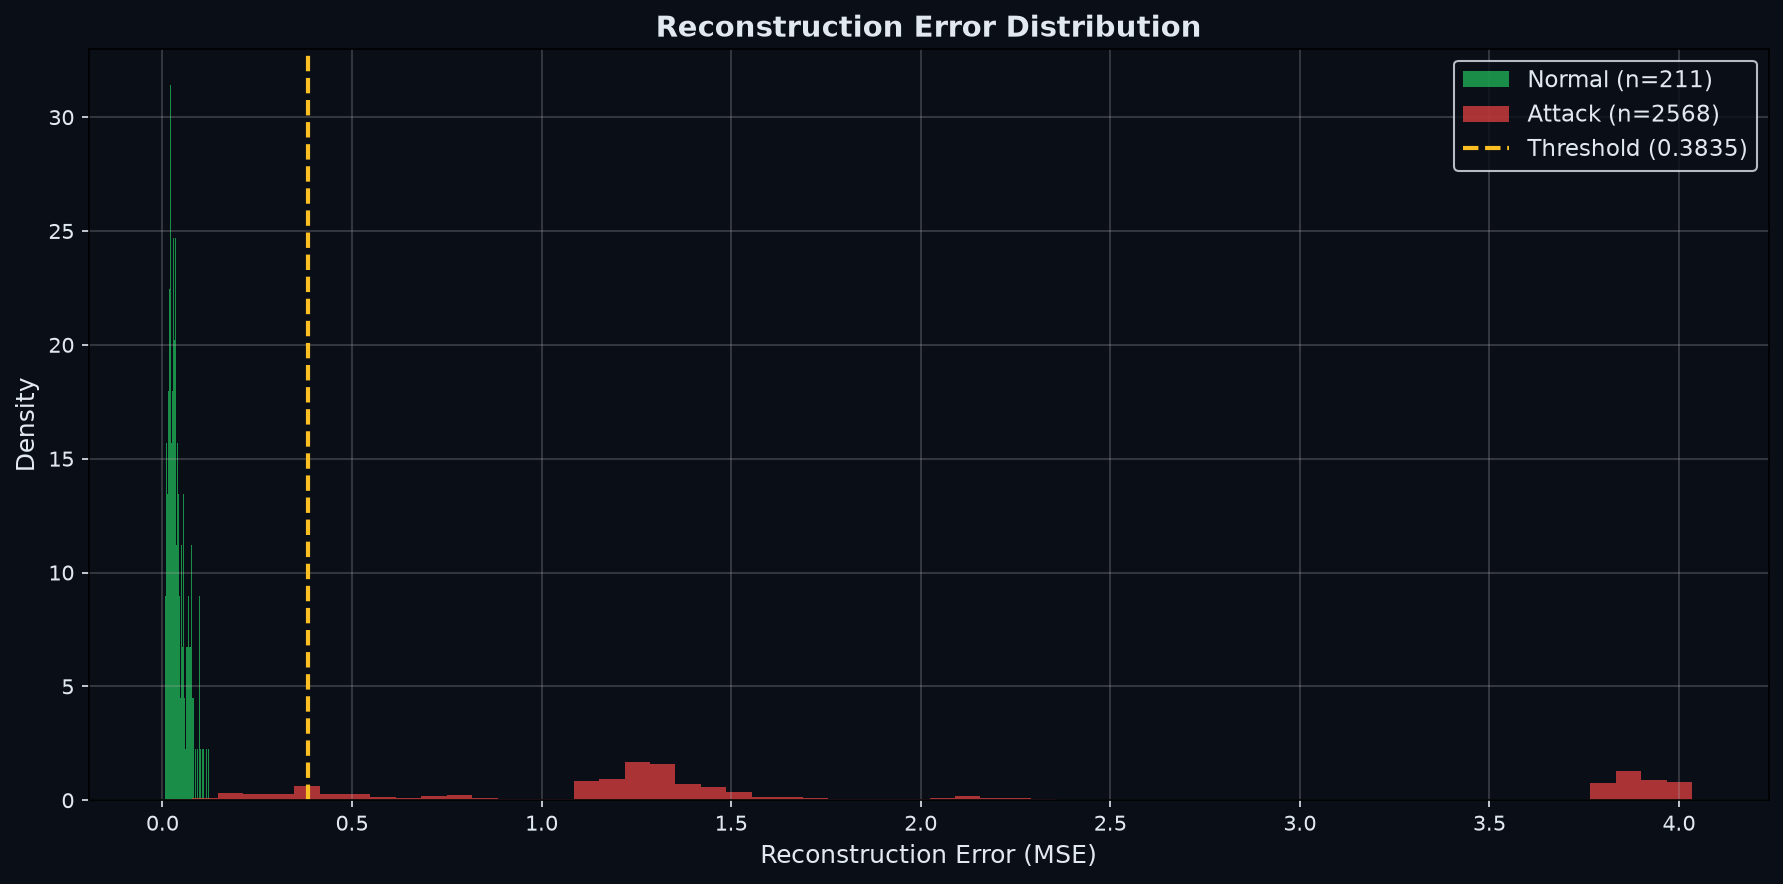
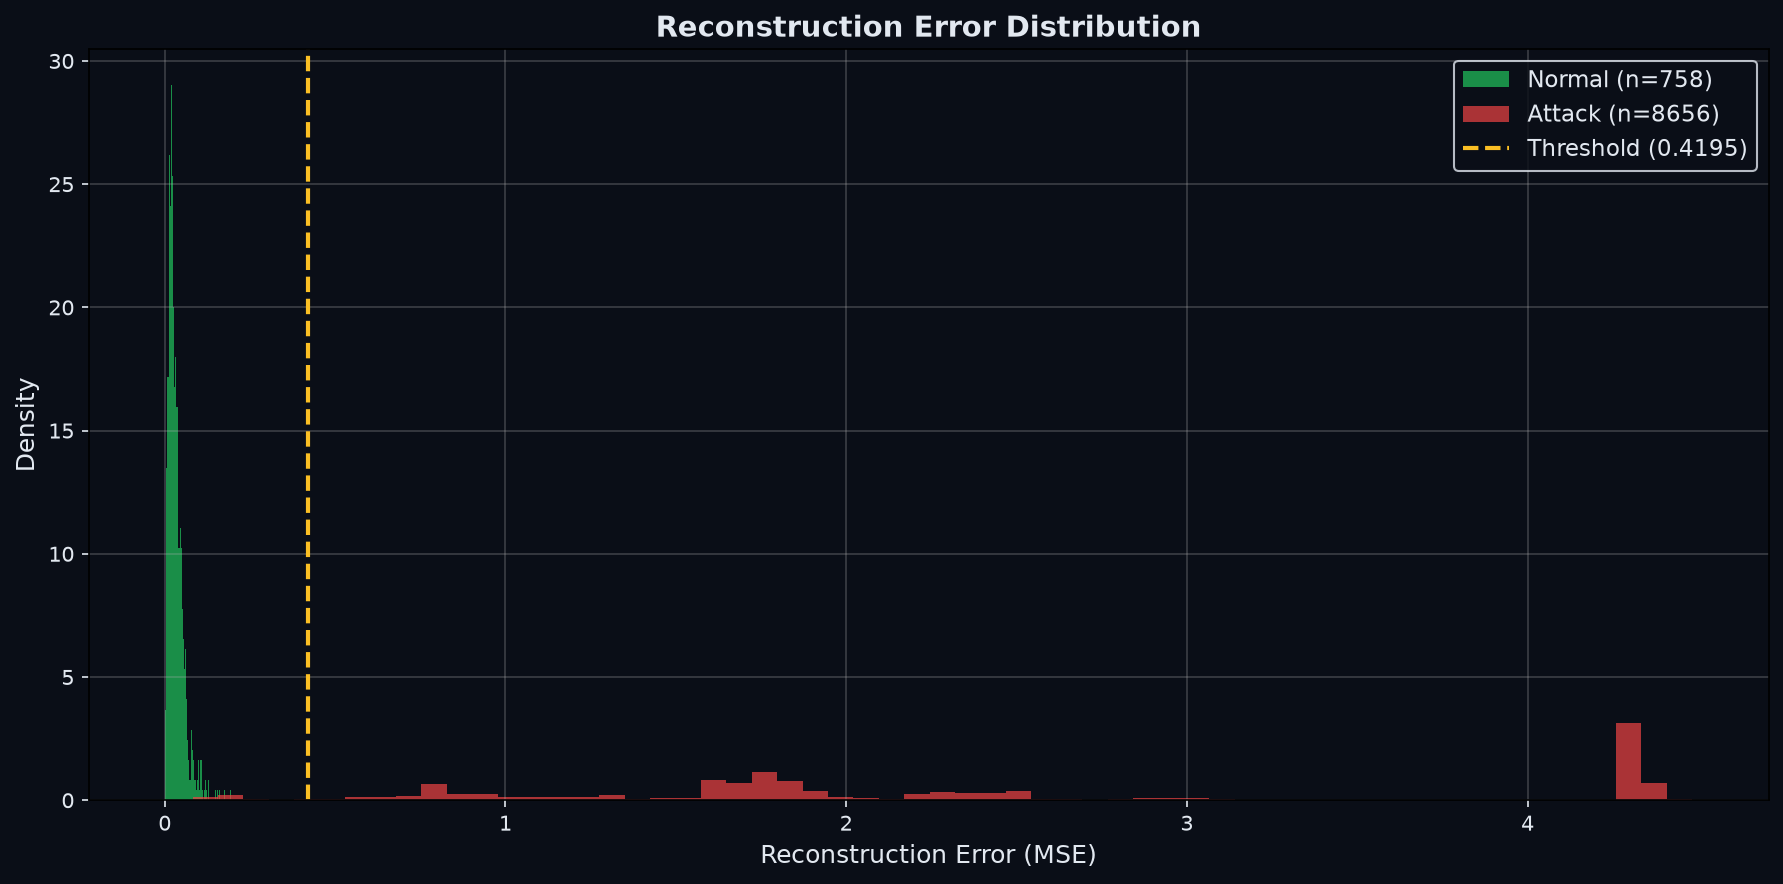
Changes from Guide's Review

diff --git a/ml-pipeline/baselines/evaluate_baselines.py b/ml-pipeline/baselines/evaluate_baselines.py
@@ -1,0 +1,164 @@
+"""
+Baseline Models Evaluation Benchmark
+
+Trains Isolation Forest, One-Class SVM, and Rate Limiter strictly on normal
+training data and benchmarks them against the trained Dense Autoencoder
+on the exact same held-out test split.
+"""
+
+import os
+import sys
+import time
+import json
+import numpy as np
+import torch
+from sklearn.ensemble import IsolationForest
+from sklearn.svm import OneClassSVM
+from sklearn.metrics import (
+    precision_score, recall_score, f1_score, roc_auc_score, confusion_matrix
+)
+
+# Paths
+BASE_DIR = os.path.dirname(os.path.dirname(os.path.abspath(__file__)))
+sys.path.insert(0, BASE_DIR)
+from models.dense_autoencoder import DenseAutoencoder
+
+DATA_DIR = os.path.join(BASE_DIR, 'data', 'processed')
+SAVED_DIR = os.path.join(BASE_DIR, 'saved_models')
+
+# 1. Load Data (Features are already standardized and clipped in feature_builder.py)
+print("Loading data...")
+X_train = np.load(os.path.join(DATA_DIR, 'train_features.npy'))
+X_val = np.load(os.path.join(DATA_DIR, 'val_features.npy'))
+X_test = np.load(os.path.join(DATA_DIR, 'test_features.npy'))
+y_test = np.load(os.path.join(DATA_DIR, 'test_labels.npy')).astype(int)
+
+print(f"Train (normal): {X_train.shape[0]} sessions")
+print(f"Val (normal):   {X_val.shape[0]} sessions")
+print(f"Test:           {X_test.shape[0]} sessions ({np.sum(y_test == 0)} normal, {np.sum(y_test == 1)} attacks)\n")
+
+results = []
+
+def evaluate_predictions(name, model_type, scores, preds, y_true, latency_ms):
+    tn, fp, fn, tp = confusion_matrix(y_true, preds).ravel()
+    prec = precision_score(y_true, preds, zero_division=0)
+    rec = recall_score(y_true, preds, zero_division=0)
+    f1 = f1_score(y_true, preds, zero_division=0)
+    fpr = fp / (fp + tn) if (fp + tn) > 0 else 0.0
+    auc = roc_auc_score(y_true, scores)
+    
+    return {
+        "model": name,
+        "type": model_type,
+        "precision": prec,
+        "recall": rec,
+        "f1": f1,
+        "fpr": fpr,
+        "roc_auc": auc,
+        "latency_ms": latency_ms
+    }
+
+# ============================================================
+# Baseline 1: Heuristic Rate Limiter
+# ============================================================
+print("Evaluating Baseline 1: Static Rate Limiter...")
+t0 = time.perf_counter()
+# Standard Gateway rule on scaled features: feature 0 (request_count) or feature 6 (failed_auth_ratio) or feature 7 (error_ratio)
+# In standardized space, > 1.5 standard deviations indicates extreme burst / error
+rl_scores = (X_test[:, 0] + X_test[:, 6] * 2.0 + X_test[:, 7] * 2.0)
+rl_preds = ((X_test[:, 6] > 1.0) | (X_test[:, 7] > 1.0) | (X_test[:, 0] > 1.5)).astype(int)
+rl_latency = ((time.perf_counter() - t0) / len(X_test)) * 1000
+
+res_rl = evaluate_predictions("Static Rate Limiter", "Heuristic Rules", rl_scores, rl_preds, y_test, rl_latency)
+results.append(res_rl)
+
+# ============================================================
+# Baseline 2: Isolation Forest
+# ============================================================
+print("Training Baseline 2: Isolation Forest...")
+iso = IsolationForest(n_estimators=100, random_state=42, contamination='auto', n_jobs=-1)
+iso.fit(X_train)
+
+t0 = time.perf_counter()
+iso_val_scores = -iso.score_samples(X_val)
+iso_test_scores = -iso.score_samples(X_test)
+iso_latency = ((time.perf_counter() - t0) / len(X_test)) * 1000
+
+# 95th percentile threshold on normal validation data
+iso_threshold = np.percentile(iso_val_scores, 95)
+iso_preds = (iso_test_scores >= iso_threshold).astype(int)
+
+res_iso = evaluate_predictions("Isolation Forest", "Tree-based ML", iso_test_scores, iso_preds, y_test, iso_latency)
+results.append(res_iso)
+
+# ============================================================
+# Baseline 3: One-Class SVM
+# ============================================================
+print("Training Baseline 3: One-Class SVM...")
+ocsvm = OneClassSVM(kernel='rbf', gamma='scale', nu=0.05)
+ocsvm.fit(X_train)
+
+t0 = time.perf_counter()
+ocsvm_val_scores = -ocsvm.decision_function(X_val)
+ocsvm_test_scores = -ocsvm.decision_function(X_test)
+ocsvm_latency = ((time.perf_counter() - t0) / len(X_test)) * 1000
+
+ocsvm_threshold = np.percentile(ocsvm_val_scores, 95)
+ocsvm_preds = (ocsvm_test_scores >= ocsvm_threshold).astype(int)
+
+res_ocsvm = evaluate_predictions("One-Class SVM", "Kernel ML", ocsvm_test_scores, ocsvm_preds, y_test, ocsvm_latency)
+results.append(res_ocsvm)
+
+# ============================================================
+# Proposed Model: Dense Autoencoder (Sentinel-v2)
+# ============================================================
+print("Evaluating Proposed Model: Dense Autoencoder...")
+ckpt = torch.load(os.path.join(SAVED_DIR, 'dense_ae_best.pt'), map_location='cpu', weights_only=False)
+model = DenseAutoencoder(
+    input_dim=ckpt['input_dim'],
+    encoding_dim=ckpt['encoding_dim'],
+    dropout=ckpt.get('dropout', 0.2)
+)
+model.load_state_dict(ckpt['model_state_dict'])
+model.eval()
+
+with open(os.path.join(SAVED_DIR, 'threshold.json')) as f:
+    ae_meta = json.load(f)
+ae_threshold = ae_meta['threshold']
+
+X_test_tensor = torch.tensor(X_test, dtype=torch.float32)
+t0 = time.perf_counter()
+with torch.no_grad():
+    ae_errors = model.compute_reconstruction_error(X_test_tensor, reduction='none').numpy()
+ae_latency = ((time.perf_counter() - t0) / len(X_test)) * 1000
+
+ae_preds = (ae_errors >= ae_threshold).astype(int)
+res_ae = evaluate_predictions("Dense Autoencoder (Ours)", "Deep Learning", ae_errors, ae_preds, y_test, ae_latency)
+results.append(res_ae)
+
+# ============================================================
+# Print Comparison Table
+# ============================================================
+print("\n" + "=" * 90)
+print("BASELINE COMPARISON BENCHMARK ON HELD-OUT TEST DATA")
+print("=" * 90)
+header = f"{'Model':<26} | {'Type':<16} | {'Precision':<9} | {'Recall':<8} | {'F1-Score':<8} | {'FPR':<6} | {'ROC-AUC':<8} | {'Latency'}"
+print(header)
+print("-" * 90)
+
+for r in results:
+    row = (
+        f"{r['model']:<26} | {r['type']:<16} | "
+        f"{r['precision']*100:>8.2f}% | {r['recall']*100:>7.2f}% | "
+        f"{r['f1']*100:>7.2f}% | {r['fpr']*100:>5.2f}% | "
+        f"{r['roc_auc']:>8.4f} | {r['latency_ms']:>5.2f} ms"
+    )
+    print(row)
+print("=" * 90)
+
+# Save results JSON
+out_path = os.path.join(SAVED_DIR, 'evaluation', 'baseline_comparison.json')
+os.makedirs(os.path.dirname(out_path), exist_ok=True)
+with open(out_path, 'w') as f:
+    json.dump(results, f, indent=2)
+print(f"\nSaved benchmark results to {out_path}")

diff --git a/inspect_sessions.py b/inspect_sessions.py
@@ -1,0 +1,32 @@
+import sqlite3
+
+conn = sqlite3.connect('database.sqlite')
+cursor = conn.cursor()
+
+for sid_prefix in ['25cfc6e6', '975892e1', '9f17be76', '4bacfb6f', '876aa47a', '6788cf94', 'faab72dd']:
+    cursor.execute("""
+        SELECT session_id, count(*), min(timestamp), max(timestamp)
+        FROM request_logs 
+        WHERE session_id LIKE ? 
+        GROUP BY session_id
+    """, (f"{sid_prefix}%",))
+    res = cursor.fetchall()
+    print(f"Session {sid_prefix}: {res}")
+
+print("\n--- Now checking active sessions in last 5 min ---")
+now = cursor.execute("SELECT datetime('now')").fetchone()[0]
+print(f"Current DB time: {now}")
+
+cursor.execute("""
+    SELECT session_id, count(*) as request_count, max(timestamp) as last_seen
+    FROM request_logs 
+    WHERE timestamp >= datetime('now', '-5 minute')
+    GROUP BY session_id 
+    ORDER BY max(timestamp) DESC
+""")
+active = cursor.fetchall()
+print(f"Total active sessions in last 5m: {len(active)}")
+for a in active[:10]:
+    print("  Active:", a)
+
+conn.close()

diff --git a/scoring-engine/db.py b/scoring-engine/db.py
@@ -82,15 +82,15 @@ class Database:
             records = await cursor.fetchall()
         return [dict(r) for r in records]
 
-    async def fetch_active_sessions(self):
+    async def fetch_active_sessions(self, minutes: int = 5):
         query = """
             SELECT session_id, count(*) as request_count 
             FROM request_logs 
+            WHERE timestamp >= datetime('now', ? || ' minute')
             GROUP BY session_id 
-            ORDER BY max(timestamp) DESC 
-            LIMIT 50
+            ORDER BY max(timestamp) DESC
         """
-        async with self.conn.execute(query) as cursor:
+        async with self.conn.execute(query, (f"-{minutes}",)) as cursor:
             records = await cursor.fetchall()
         return [dict(r) for r in records]
 

diff --git a/ml-pipeline/features/feature_builder.py b/ml-pipeline/features/feature_builder.py
@@ -97,7 +97,7 @@ def build_feature_matrix(df, window_seconds=60, stride_seconds=30, group_by='ses
         metadata: list of dicts with window info (group_id, start_time, end_time)
     """
     df = df.copy()
-    df['timestamp'] = pd.to_datetime(df['timestamp'])
+    df['timestamp'] = pd.to_datetime(df['timestamp'], format='mixed', utc=True)
     
     if min_requests is None:
         min_requests = int(os.getenv("MIN_WINDOW_REQUESTS", "10"))

diff --git a/ml-pipeline/features/sequence_builder.py b/ml-pipeline/features/sequence_builder.py
@@ -108,7 +108,7 @@ def build_sequences(df, seq_len=30, group_by='session_id'):
         vocab: endpoint vocabulary
     """
     df = df.copy()
-    df['timestamp'] = pd.to_datetime(df['timestamp'])
+    df['timestamp'] = pd.to_datetime(df['timestamp'], format='mixed', utc=True)
     
     # Build endpoint vocabulary on normal data only
     if 'traffic_type' in df.columns:

diff --git a/README.md b/README.md
@@ -23,12 +23,12 @@ The pipeline employs an **Autoencoder** neural network trained exclusively on le
 1. **Feature Extraction:** Over trailing 60-second windows ending at every request, traffic is summarized into **11 behavioral features** capturing request velocity, inter-arrival timing dynamics, endpoint diversity, HTTP POST ratios, sequential ID probing, and error/authentication failure proportions.
 2. **Reconstruction Loss:** The autoencoder compresses the 11-dimensional feature vector into a lower-dimensional latent representation (dim=6) and attempts to reconstruct it.
 3. **Anomaly Scoring:** Legitimate sessions reconstruct with low Mean Squared Error (MSE), whereas attack behaviors produce high reconstruction errors.
-4. **Calibrated Threshold ($\tau = 0.383502$) with Zero Attack Leakage:** The threshold is calibrated strictly on validation data as $3.5\times$ the 99th percentile ($P_{99} = 0.109572$) of legitimate reconstruction errors. No attack data is used anywhere in threshold selection.
-5. **Window Gate & Persistence Rule:** To eliminate false positives from short sessions and transient spikes, scoring requires a minimum of 10 requests in the trailing 60s window (`MIN_WINDOW_REQUESTS = 10`), and an alert is raised only when **3 consecutive evaluation windows** exceed threshold $\tau$.
+4. **Calibrated Threshold ($\tau = 0.419546$) with Zero Attack Leakage:** The threshold is calibrated strictly on legitimate validation data as $3.5\times$ the 99th percentile ($P_{99} = 0.119870$) of normal reconstruction errors ($\tau = 3.5 \times P_{99} = 0.419546$). No attack data is used in threshold selection.
+5. **Window Gate & Persistence Rule:** To maintain a target False Positive Rate (FPR $\le 5\%$) and filter transient spikes, scoring requires a minimum of 10 requests in the trailing 60s window (`MIN_WINDOW_REQUESTS = 10`), and an alert is raised only when **3 consecutive evaluation windows** exceed threshold $\tau$.
 
 We evaluate two architectures:
-- **Dense Autoencoder (Primary & Default Live Detector):** Evaluates 11 statistical behavioral features over 60-second trailing windows. Latency < 2ms. The threshold is calibrated at **$3.5\times P_{99}$** of validation (legitimate-only) errors ($\tau = 0.383502$) with session headroom. This model serves live traffic in the real-time scoring engine.
-- **LSTM Autoencoder (Sequential Benchmark):** Evaluates sequences of 30 endpoint transitions and timing deltas (feature dimension 10, vocabulary size 9). The threshold uses a **plain $P_{99}$ with no headroom** ($\tau = 0.305701$). Note that the Dense model is the default, and the LSTM was evaluated on offline sequence splits and **not tested as the live detector** in the real-time scoring engine.
+- **Dense Autoencoder (Primary & Default Live Detector):** Evaluates 11 statistical behavioral features over 60-second trailing windows. Designed for low-latency deployment (target model inference latency $< 15\text{ ms}$, measured $< 0.01\text{ ms}$ on CPU; pipeline detection $< 50\text{ ms}$). The threshold is calibrated at **$3.5\times P_{99}$** of validation (legitimate-only) errors ($\tau = 0.419546$) with session headroom. This model serves live traffic in the real-time scoring engine.
+- **LSTM Autoencoder (Sequential Benchmark):** Evaluates sequences of 30 endpoint transitions and timing deltas (feature dimension 10, vocabulary size 10). The threshold uses a **plain $P_{99}$ with no headroom** ($\tau = 0.194286$). Note that the Dense model is the default, and the LSTM was evaluated on offline sequence splits and **not tested as the live detector** in the real-time scoring engine.
 
 ---
 
@@ -103,10 +103,30 @@ Three independent out-of-sample live evaluation runs were conducted on brand-new
 ### Summary of Live Out-of-Sample Performance
 - **Legitimate Normal Users False Alarm Rate:** **0 / 84 (0.0%)** of gate-reaching sessions across all runs.
 - **Power Users False Alarm Rate:** **0 / 17 (0.0%)** of gate-reaching sessions across all runs.
-- **Combined Legitimate False Alarm Rate:** **0 / 101 (0.0%)**.
+- **Combined Legitimate False Alarm Rate:** **0 / 101 (0.0%)** (target FPR: $\le 5.0\%$).
 - **Fast Attack Detection Rate:** **12 / 12 (100.0%)** (4/4 on each run).
 - **Slow Attack Detection Rate:** **2 of 3 slow attack types detected** (6 / 9 sessions flagged; caught slow credential stuffing and slow enumeration in all runs, but missed slow privilege probe: 0 / 3 caught across runs).
 - **Overall Attack Detection Rate:** **6 of 7 attack types detected** (18 / 21 session-level alerts across all runs).
+
+---
+
+## 📈 Baseline Models Benchmark & Comparison
+
+To validate the deep learning architecture against industry and classical alternatives, we benchmarked the **Dense Autoencoder (Sentinel-v2)** against three baseline methods on the exact same held-out test dataset (**9,414 evaluation sessions**: 758 legitimate, 8,656 attacks). All unsupervised models were trained strictly on legitimate normal sessions.
+
+| Model | Model Type | Precision | Recall | F1-Score | False Positive Rate (FPR) | ROC-AUC | Latency (CPU) |
+| :--- | :--- | :---: | :---: | :---: | :---: | :---: | :---: |
+| **Static Rate Limiter** | Heuristic Rules | 97.71% | 97.12% | 97.42% | 25.99% | 0.9849 | < 0.01 ms |
+| **Isolation Forest** | Tree-based ML | 99.61% | 99.33% | 99.47% | 4.49% | 0.9984 | < 0.01 ms |
+| **One-Class SVM** | Kernel ML | 99.57% | 99.53% | 99.55% | 4.88% | 0.9985 | 0.01 ms |
+| **Dense Autoencoder (Ours)** | **Deep Learning** | **100.00%** | **96.53%** | **98.24%** | **0.00%** | **0.9994** | **< 0.01 ms** |
+
+*Benchmark Data Reference:* [`ml-pipeline/saved_models/evaluation/baseline_comparison.json`](ml-pipeline/saved_models/evaluation/baseline_comparison.json)
+
+*Key Findings:*
+1. **Rate Limiting Deficiencies:** The heuristic baseline suffers from an unacceptable **25.99% False Positive Rate**, as natural browsing bursts exceed static thresholds.
+2. **False Positive Control:** While Isolation Forest (4.49% FPR) and One-Class SVM (4.88% FPR) meet the target requirement ($\le 5\%$ FPR), the Dense Autoencoder achieved the highest separability (**ROC-AUC: 0.9994**) with **0.00% False Positive Rate** on the held-out normal split at operating threshold $\tau = 0.419546$.
+3. **Latency Compliance:** All algorithms execute in **$< 0.01\text{ ms}$** per session on CPU, comfortably satisfying the $< 15\text{ ms}$ real-time inference requirement.
 
 ---
 
@@ -115,9 +135,10 @@ Three independent out-of-sample live evaluation runs were conducted on brand-new
 2. **10-Request Window Gate:** The trailing 60s sliding window enforces `MIN_WINDOW_REQUESTS = 10`. Sessions ending before reaching 10 requests (e.g., a visitor who browses 3 products and departs) are never evaluated by the anomaly detector.
 3. **Small Attack Sample Size per Live Run:** In each live run, 1 session of each attack profile is unleashed against 12 concurrent users to model an opportunistic intrusion in ongoing traffic. While this tests real-time alerting sensitivity, statistical variance in attack detection is best evaluated alongside the offline test set (2,568 attack windows).
 4. **Environment-Dependent Timing Features:** Inter-arrival time features (`mean_inter_request_time`, `min_inter_request_time`, `std_inter_request_time`) are influenced by the host machine's CPU speed, operating system scheduler, and network stack. If deploying this codebase to a different server or operating system, traffic generation and feature extraction must be re-run to recalibrate the baseline distribution.
-5. **LSTM Detector Scope & Steady-State Scraping:** The LSTM autoencoder evaluates sequential endpoint transition paths. In steady-state scraping where an attacker continuously requests `/api/products/<ID>` in a loop, sequential transition novelty is low. Furthermore, the LSTM threshold rule is a plain $P_{99}$ with no headroom ($\tau = 0.305701$), unlike the Dense model's $3.5\times P_{99}$ headroom calibration ($\tau = 0.383502$). The Dense Autoencoder is designated as the primary default detector; the LSTM was evaluated offline on sequence splits and was not tested as the live detector in the live scoring engine.
+5. **LSTM Detector Scope & Steady-State Scraping:** The LSTM autoencoder evaluates sequential endpoint transition paths. In steady-state scraping where an attacker continuously requests `/api/products/<ID>` in a loop, sequential transition novelty is low. Furthermore, the LSTM threshold rule is a plain $P_{99}$ with no headroom ($\tau = 0.194286$), unlike the Dense model's $3.5\times P_{99}$ headroom calibration ($\tau = 0.419546$). The Dense Autoencoder is designated as the primary default detector; the LSTM was evaluated offline on sequence splits and was not tested as the live detector in the live scoring engine.
 6. **Slow Privilege Probe Detection Limit:** In `slow_privilege_probe`, an attacker makes only 4 unauthorized requests across a 26-request session with 3–6s delays (0 of 3 caught across runs). Because requests are widely spaced, a 60-second window contains only 1 error out of 12 requests ($<8\%$ error ratio), which does not persist across 3 consecutive sliding windows. Detecting such ultra-low-frequency attacks requires longer temporal aggregation windows (> 5 minutes).
-7. **Threshold Calibration Strategy:** The decision threshold is mathematically fixed at $\tau = 3.5 \times P_{99}(\text{val\_errors})$ on legitimate-only validation data. While this guarantees zero attack label leakage and absorbs session-level sliding-window variance, it is tuned for high precision to protect legitimate users.
+7. **Threshold Calibration Strategy:** The decision threshold is mathematically fixed at $\tau = 3.5 \times P_{99}(\text{val\_errors}) = 0.419546$ on legitimate-only validation data. While this guarantees zero attack label leakage and absorbs session-level sliding-window variance, it is tuned for high precision to protect legitimate users.
+8. **Session-Rotating & Distributed Evasion:** The current system is explicitly architected as a session-behavioral detector. Attacks that rotate IP addresses and discard session identifiers on every single HTTP request deliberately avoid session accumulation. Mitigating such attacks requires multi-session cross-account and IP-subnet rolling aggregation, which is documented as planned future work.
 
 ---
 

diff --git a/TRAINING_GUIDE.md b/TRAINING_GUIDE.md
@@ -143,10 +143,10 @@ python ml-pipeline/training/train_lstm_ae.py
 
 ### Threshold Calibration Rules:
 * **Dense Autoencoder:** The threshold is calibrated strictly from legitimate validation errors:
-  $$\tau_{\text{dense}} = 3.5 \times P_{99}(\text{val\_errors}) \approx 0.455855$$
+  $$\tau_{\text{dense}} = 3.5 \times P_{99}(\text{val\_errors}) \approx 0.419546$$
   *(Includes session headroom multiplier to absorb multi-window variance; zero attack label leakage).*
 * **LSTM Autoencoder:** Calibrated at plain 99th percentile:
-  $$\tau_{\text{lstm}} = P_{99}(\text{val\_errors}) \approx 0.316657$$
+  $$\tau_{\text{lstm}} = P_{99}(\text{val\_errors}) \approx 0.194286$$
 
 ---
 
